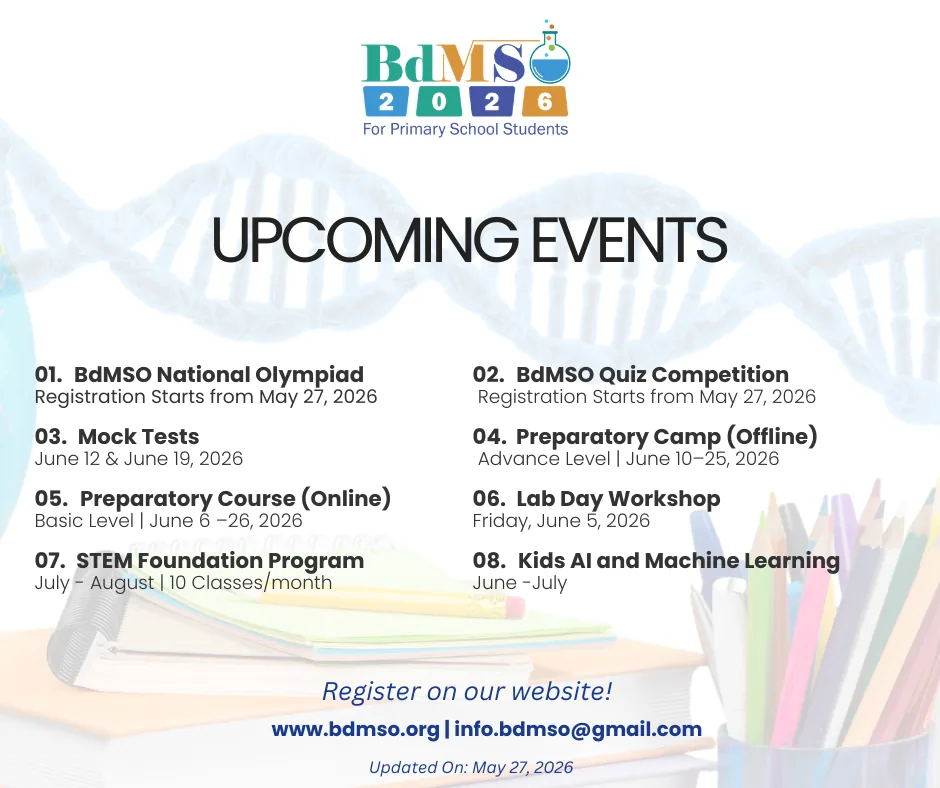
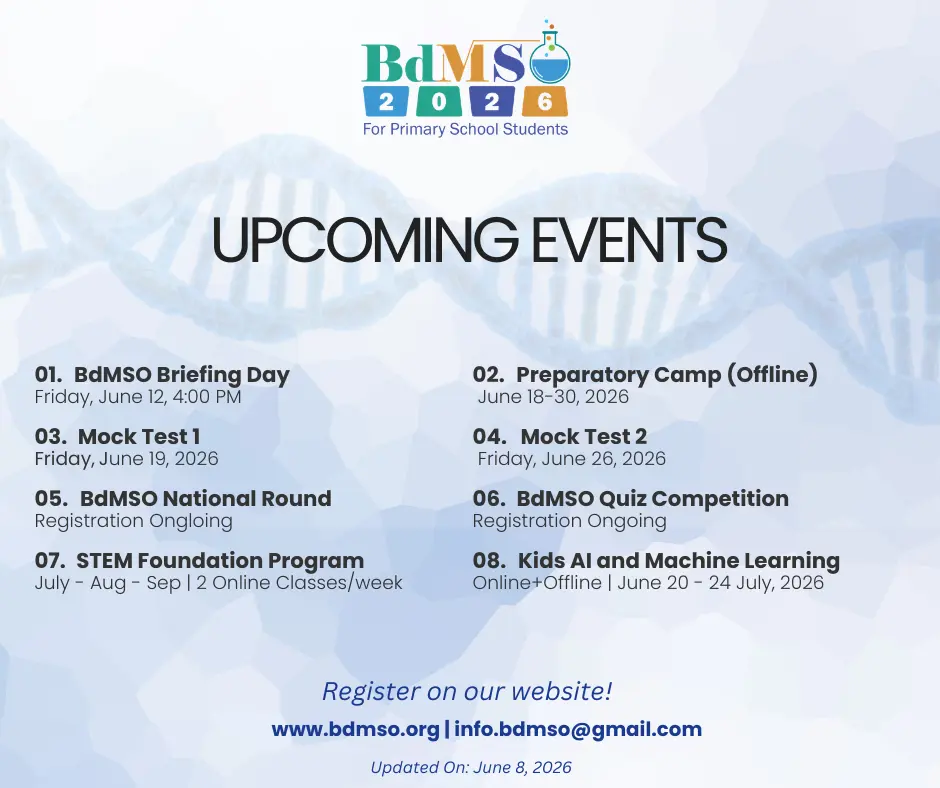
fix: broadcast 'unpaid' excludes anyone with a successful payment; refresh upcoming-events image from main
- Unpaid/not-enrolled audience now keys on a paid PAYMENT (not reg status), so a guardian with both a failed and a successful payment is correctly excluded.
- upcoming-events.webp updated to the latest from main.

diff --git a/worker/routes/admin.js b/worker/routes/admin.js
@@ -1344,8 +1344,10 @@ function broadcastFilters(src) {
 function broadcastRecipientSql(src) {
   if (src.status === "unpaid") {
     const binds = [];
-    let paidSub = "SELECT guardian_account_id FROM registrations WHERE status = 'paid'";
-    if (src.program) { paidSub += " AND registration_type = ?"; binds.push(src.program); }
+    // Exclude anyone with a SUCCESSFUL payment for the program - even if they
+    // also have failed/pending attempts. Keyed on the payment, not reg status.
+    let paidSub = "SELECT r.guardian_account_id FROM registrations r JOIN payments p ON p.registration_id = r.id AND p.status = 'paid'";
+    if (src.program) { paidSub += " WHERE r.registration_type = ?"; binds.push(src.program); }
     return {
       sql: `SELECT DISTINCT a.email FROM guardian_accounts a WHERE a.email IS NOT NULL AND a.email != '' AND a.id NOT IN (${paidSub})`,
       binds,